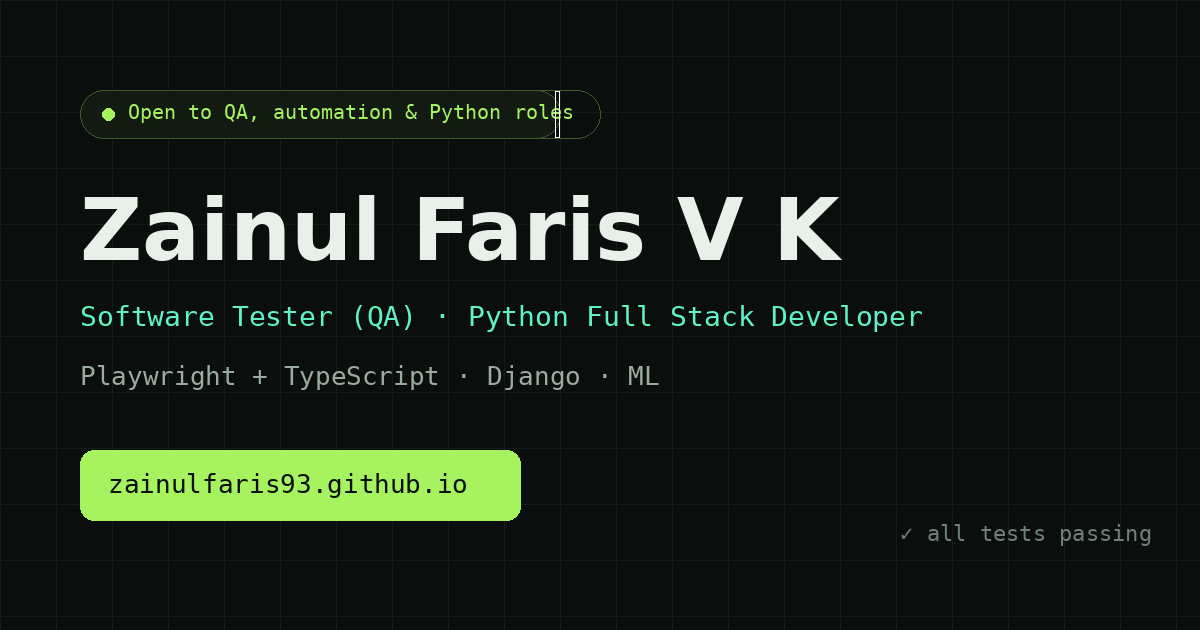
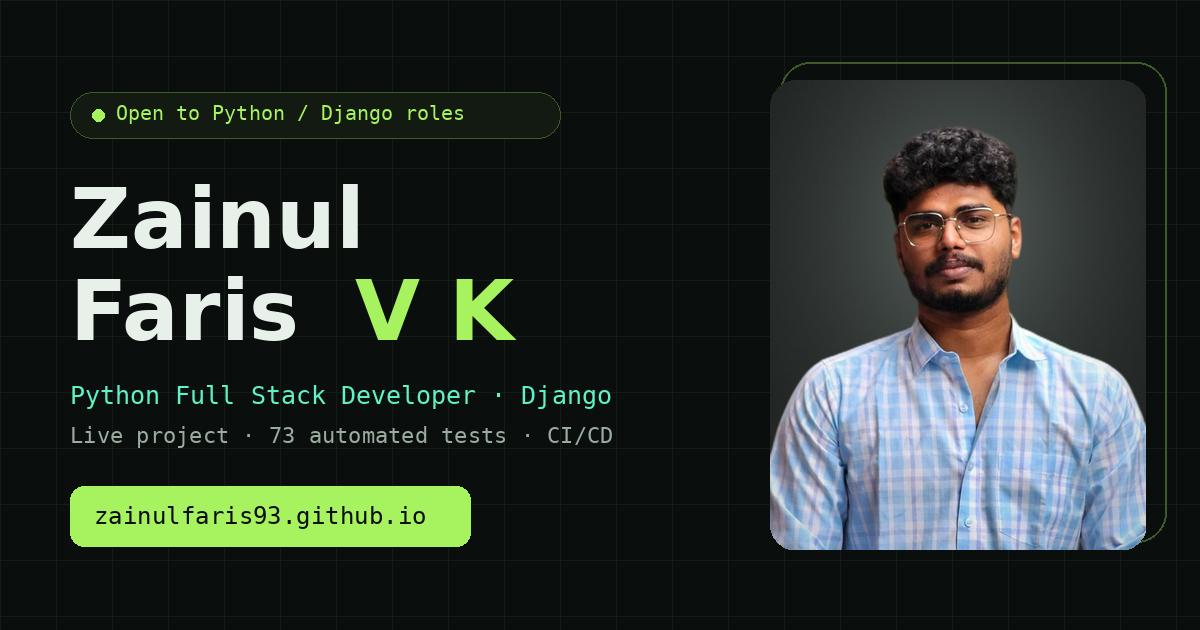
Shared styles, theme toggle, settings, headshot

diff --git a/assets/site.css b/assets/site.css
@@ -1,0 +1,208 @@
+/* ============================================================
+   Zainul Faris V K: shared styles for the portfolio pages
+   ============================================================ */
+:root{
+  --bg:#0a0e0c; --bg2:#0d1210; --panel:#111714; --panel2:#151d19; --line:#1f2b25; --line2:#2a3a32;
+  --text:#e8f0ea; --mute:#9aaba0; --dim:#6f8076;
+  --acc:#a6f25f; --acc-ink:#0a0e0c; --acc2:#5ff2c6; --warn:#ffb547;
+  --acc-soft:rgba(166,242,95,.08); --acc-line:rgba(166,242,95,.32);
+  --grid:#141c18; --shadow:0 30px 80px -24px rgba(0,0,0,.85);
+  --head:'Bricolage Grotesque',system-ui,sans-serif;
+  --mono:'JetBrains Mono',ui-monospace,Menlo,Consolas,monospace;
+  color-scheme:dark;
+}
+:root[data-theme="light"]{
+  --bg:#f5f7f3; --bg2:#eef2ec; --panel:#ffffff; --panel2:#f2f5f0; --line:#dfe6dc; --line2:#cbd6c7;
+  --text:#0f1a14; --mute:#4a5a50; --dim:#6b7a70;
+  --acc:#3d7f12; --acc-ink:#ffffff; --acc2:#0b7c62; --warn:#a35f00;
+  --acc-soft:rgba(61,127,18,.07); --acc-line:rgba(61,127,18,.35);
+  --grid:#e7ece4; --shadow:0 24px 60px -28px rgba(20,40,25,.28);
+  color-scheme:light;
+}
+*{box-sizing:border-box;margin:0;padding:0}
+html{scroll-behavior:smooth;scroll-padding-top:84px}
+body{
+  background:var(--bg); color:var(--text); font-family:var(--head); line-height:1.6; overflow-x:hidden;
+  background-image:linear-gradient(var(--grid) 1px,transparent 1px),linear-gradient(90deg,var(--grid) 1px,transparent 1px);
+  background-size:56px 56px; background-attachment:fixed;
+  transition:background-color .3s,color .3s;
+}
+body::before{content:"";position:fixed;inset:0;pointer-events:none;z-index:0;background:radial-gradient(ellipse at 50% 0%,transparent 0%,var(--bg) 72%)}
+main,nav,footer,header.page{position:relative;z-index:1}
+a{color:inherit;text-decoration:none}
+img{max-width:100%;height:auto;display:block}
+.wrap{max-width:1120px;margin:0 auto;padding:0 24px}
+.narrow{max-width:820px}
+.mono{font-family:var(--mono)}
+svg.i{width:16px;height:16px;flex:none;stroke:currentColor;fill:none;stroke-width:2;stroke-linecap:round;stroke-linejoin:round}
+:focus-visible{outline:2px solid var(--acc);outline-offset:3px;border-radius:6px}
+.skip{position:absolute;left:-999px;top:8px;background:var(--acc);color:var(--acc-ink);padding:8px 14px;border-radius:8px;z-index:100;font-family:var(--mono);font-size:13px}
+.skip:focus{left:16px}
+
+/* NAV */
+nav.top{position:sticky;top:0;backdrop-filter:blur(12px);-webkit-backdrop-filter:blur(12px);background:color-mix(in srgb,var(--bg) 82%,transparent);border-bottom:1px solid var(--line);z-index:50}
+nav.top .wrap{display:flex;align-items:center;justify-content:space-between;height:64px;gap:16px}
+.logo{font-family:var(--mono);font-weight:600;font-size:15px;white-space:nowrap}
+.logo span{color:var(--acc)}
+.nav-r{display:flex;align-items:center;gap:22px}
+.links{display:flex;gap:22px;font-family:var(--mono);font-size:13px}
+.links a{color:var(--mute);transition:color .2s}
+.links a:hover,.links a[aria-current]{color:var(--acc)}
+.icon-btn{background:none;border:1px solid var(--line2);color:var(--text);width:36px;height:36px;border-radius:9px;display:inline-grid;place-items:center;cursor:pointer;transition:border-color .2s,color .2s}
+.icon-btn:hover{border-color:var(--acc);color:var(--acc)}
+.icon-btn .sun{display:none}
+:root[data-theme="light"] .icon-btn .sun{display:block}
+:root[data-theme="light"] .icon-btn .moon{display:none}
+.menu-btn{display:none;background:none;border:1px solid var(--line2);color:var(--text);font-family:var(--mono);font-size:13px;padding:7px 12px;border-radius:8px;cursor:pointer}
+
+/* BUTTONS */
+.btn{font-family:var(--mono);font-size:14px;padding:13px 20px;border-radius:10px;border:1px solid var(--line2);transition:all .2s;display:inline-flex;gap:8px;align-items:center;justify-content:center;cursor:pointer;background:none;color:var(--text);white-space:nowrap}
+.btn.sm{font-size:13px;padding:9px 14px;border-radius:8px}
+.btn.primary{background:var(--acc);color:var(--acc-ink);border-color:var(--acc);font-weight:600}
+.btn.primary:hover{transform:translateY(-2px);box-shadow:0 10px 30px -10px var(--acc)}
+.btn.ghost:hover{border-color:var(--acc);color:var(--acc)}
+.btn[hidden]{display:none}
+.cta{display:flex;gap:12px;flex-wrap:wrap}
+.textlink{color:var(--acc);font-family:var(--mono);font-size:13px;display:inline-flex;align-items:center;gap:6px}
+.textlink:hover{text-decoration:underline;text-underline-offset:4px}
+
+/* SHARED BITS */
+.tag{display:inline-flex;align-items:center;gap:8px;font-family:var(--mono);font-size:12px;color:var(--acc);border:1px solid var(--acc-line);background:var(--acc-soft);padding:6px 12px;border-radius:99px}
+.dot{width:7px;height:7px;border-radius:50%;background:var(--acc);box-shadow:0 0 10px var(--acc);animation:pulse 1.8s infinite}
+@keyframes pulse{50%{opacity:.35}}
+.card{background:var(--panel);border:1px solid var(--line);border-radius:14px;padding:26px}
+.card h4{font-family:var(--mono);font-size:12px;color:var(--mute);font-weight:400;margin-bottom:12px;text-transform:uppercase;letter-spacing:.1em}
+.chips{display:flex;flex-wrap:wrap;gap:7px}
+.chip{font-family:var(--mono);font-size:11.5px;padding:5px 10px;border-radius:6px;background:var(--panel2);border:1px solid var(--line);color:var(--text)}
+.chip.key{border-color:var(--acc-line);color:var(--acc)}
+.badge{font-family:var(--mono);font-size:11.5px;padding:4px 10px;border-radius:99px;border:1px solid var(--line2);color:var(--mute);display:inline-flex;align-items:center;gap:6px}
+.badge.live{color:var(--acc);border-color:var(--acc-line)}
+.badges{display:flex;gap:8px;flex-wrap:wrap}
+.arrows{list-style:none}
+.arrows li{color:var(--mute);padding-left:22px;position:relative;margin-bottom:8px;font-size:15.5px}
+.arrows li b{color:var(--text);font-weight:600}
+.arrows li::before{content:"→";position:absolute;left:0;color:var(--acc);font-family:var(--mono)}
+
+section{padding:96px 0 10px}
+.sec-head{display:flex;align-items:baseline;gap:16px;margin-bottom:14px}
+.sec-head .num{font-family:var(--mono);color:var(--acc);font-size:14px}
+.sec-head h2{font-size:clamp(32px,4.6vw,50px);font-weight:800;letter-spacing:-.02em;line-height:1}
+.sec-head .rule{flex:1;height:1px;background:var(--line)}
+.sec-sub{color:var(--mute);font-size:17px;margin-bottom:36px;max-width:660px}
+
+/* TERMINAL */
+.term{background:#0e1411;border:1px solid #1f2b25;border-radius:14px;overflow:hidden;box-shadow:var(--shadow);color:#e8f0ea}
+.term-bar{display:flex;align-items:center;gap:8px;padding:12px 16px;border-bottom:1px solid #1f2b25;background:#141c18}
+.term-bar i{width:11px;height:11px;border-radius:50%}
+.term-bar i:nth-child(1){background:#ff5f57}.term-bar i:nth-child(2){background:#febc2e}.term-bar i:nth-child(3){background:#28c840}
+.term-bar span{margin-left:auto;font-family:var(--mono);font-size:11px;color:#8b9b91}
+.term-body{font-family:var(--mono);font-size:12.5px;padding:18px 20px;min-height:360px;line-height:1.8;white-space:pre-wrap}
+.term-body .p{color:#5ff2c6} .term-body .ok{color:#a6f25f} .term-body .dim{color:#8b9b91} .term-body .sum{color:#a6f25f;font-weight:600}
+.cursor{display:inline-block;width:8px;height:15px;background:#a6f25f;vertical-align:middle;animation:blink 1s steps(1) infinite}
+@keyframes blink{50%{opacity:0}}
+
+/* FLOW DIAGRAMS */
+.flow{display:flex;align-items:stretch;gap:0;flex-wrap:nowrap}
+.flow .step{flex:1;min-width:0;background:var(--panel2);border:1px solid var(--line);border-radius:12px;padding:14px 14px 12px;text-align:left}
+.flow .step b{display:block;font-size:14.5px;line-height:1.25;margin-bottom:4px}
+.flow .step small{display:block;font-family:var(--mono);font-size:11px;color:var(--mute);line-height:1.5}
+.flow .step .k{font-family:var(--mono);font-size:10.5px;color:var(--acc);letter-spacing:.08em;text-transform:uppercase;margin-bottom:6px;display:block}
+.flow .step.hl{border-color:var(--acc-line);background:var(--acc-soft)}
+.flow .arr{flex:none;width:30px;display:grid;place-items:center;color:var(--acc);font-family:var(--mono)}
+.flow .arr::before{content:"→"}
+.diagram{padding:22px}
+.diagram figcaption{font-family:var(--mono);font-size:12px;color:var(--dim);margin-top:14px}
+
+/* FOOTER */
+footer{border-top:1px solid var(--line);padding:26px 0;font-family:var(--mono);font-size:12px;color:var(--mute);margin-top:40px}
+footer .wrap{display:flex;justify-content:space-between;flex-wrap:wrap;gap:10px}
+
+/* REVEAL */
+.rv{opacity:0;transform:translateY(22px);transition:opacity .7s ease,transform .7s cubic-bezier(.2,.8,.2,1)}
+.rv.in{opacity:1;transform:none}
+.no-js .rv{opacity:1;transform:none}
+
+/* ================= CASE STUDY PAGES ================= */
+header.page{padding:56px 0 18px}
+.crumb{font-family:var(--mono);font-size:13px;color:var(--mute);display:inline-flex;gap:8px;align-items:center;margin-bottom:26px}
+.crumb:hover{color:var(--acc)}
+header.page h1{font-size:clamp(38px,6vw,68px);font-weight:800;letter-spacing:-.03em;line-height:1;margin:16px 0 18px}
+header.page .lede{font-size:clamp(17px,2vw,20px);color:var(--mute);max-width:720px}
+.meta-grid{display:grid;grid-template-columns:repeat(4,1fr);border:1px solid var(--line);border-radius:14px;background:var(--panel);overflow:hidden;margin:34px 0 24px}
+.meta-grid div{padding:18px 20px;border-right:1px solid var(--line)}
+.meta-grid div:last-child{border-right:none}
+.meta-grid small{display:block;font-family:var(--mono);font-size:11px;color:var(--dim);text-transform:uppercase;letter-spacing:.1em;margin-bottom:4px}
+.meta-grid b{font-size:15px;font-weight:600;line-height:1.35;display:block}
+.cs section{padding:64px 0 0}
+.cs h2{font-size:clamp(26px,3.4vw,34px);font-weight:800;letter-spacing:-.01em;margin-bottom:14px;display:flex;gap:12px;align-items:baseline}
+.cs h2 .num{font-family:var(--mono);font-size:13px;color:var(--acc);font-weight:400}
+.cs h3{font-size:19px;margin:26px 0 8px}
+.cs p{color:var(--mute);font-size:17px;margin-bottom:14px}
+.cs p b,.cs p strong{color:var(--text);font-weight:600}
+.cs code{font-family:var(--mono);font-size:.86em;background:var(--panel2);border:1px solid var(--line);padding:1px 6px;border-radius:5px;color:var(--text)}
+.shot{border:1px solid var(--line);border-radius:12px;overflow:hidden;background:var(--panel2)}
+.shot .bar{display:flex;align-items:center;gap:6px;padding:9px 12px;border-bottom:1px solid var(--line)}
+.shot .bar i{width:8px;height:8px;border-radius:50%;background:var(--line2)}
+.shot .bar span{margin-left:8px;font-family:var(--mono);font-size:11px;color:var(--dim)}
+.shots{display:grid;grid-template-columns:1fr 1fr;gap:18px;margin-top:20px}
+.shots figure figcaption{font-family:var(--mono);font-size:12px;color:var(--dim);margin-top:8px}
+.bugs{display:grid;gap:12px;margin-top:18px}
+.bug{display:grid;grid-template-columns:auto 1fr;gap:4px 14px;padding:16px 18px}
+.bug .sev{font-family:var(--mono);font-size:11px;padding:3px 8px;border-radius:6px;height:fit-content;border:1px solid}
+.bug .sev.high{color:#ff7a6b;border-color:rgba(255,122,107,.45)}
+.bug .sev.med{color:var(--warn);border-color:color-mix(in srgb,var(--warn) 45%,transparent)}
+.bug .sev.low{color:var(--acc2);border-color:color-mix(in srgb,var(--acc2) 45%,transparent)}
+.bug b{font-size:16px}
+.bug p{grid-column:2;font-size:15px;margin:0}
+.stat-row{display:grid;grid-template-columns:repeat(3,1fr);gap:14px;margin:18px 0}
+.stat{padding:20px}
+.stat b{display:block;font-size:34px;font-weight:800;letter-spacing:-.02em;color:var(--acc);line-height:1}
+.stat span{font-family:var(--mono);font-size:12px;color:var(--mute)}
+.next{display:flex;justify-content:space-between;gap:16px;flex-wrap:wrap;margin-top:70px;padding-top:26px;border-top:1px solid var(--line)}
+.next a{display:block;padding:18px 20px;border:1px solid var(--line);border-radius:12px;background:var(--panel);flex:1;min-width:240px;transition:border-color .2s}
+.next a:hover{border-color:var(--acc)}
+.next small{display:block;font-family:var(--mono);font-size:11px;color:var(--dim);text-transform:uppercase;letter-spacing:.1em}
+.next b{font-size:18px}
+
+/* RESPONSIVE */
+@media(max-width:960px){
+  .links{display:none;position:absolute;top:64px;left:0;right:0;flex-direction:column;gap:0;background:var(--bg);border-bottom:1px solid var(--line)}
+  .links.open{display:flex}
+  .links a{padding:16px 24px;border-top:1px solid var(--line)}
+  .menu-btn{display:block}
+  .nav-r{gap:10px}
+  .meta-grid{grid-template-columns:1fr 1fr}
+  .meta-grid div:nth-child(2){border-right:none}
+  .meta-grid div:nth-child(-n+2){border-bottom:1px solid var(--line)}
+  .flow{flex-direction:column}
+  .flow .arr{width:auto;height:26px}
+  .flow .arr::before{content:"↓"}
+}
+@media(max-width:640px){
+  .wrap{padding:0 16px}
+  .shots,.stat-row{grid-template-columns:1fr}
+  .meta-grid{grid-template-columns:1fr}
+  .meta-grid div{border-right:none;border-bottom:1px solid var(--line)}
+  .meta-grid div:last-child{border-bottom:none}
+  .cta .btn{flex:1 1 100%}
+  .term-body{font-size:11px;min-height:330px;padding:16px}
+  .nav-r .btn .long{display:none}
+}
+@media(prefers-reduced-motion:reduce){*{animation:none!important;transition:none!important}.rv{opacity:1;transform:none}}
+@media print{
+  body{background:#fff;color:#000}
+  body::before,nav.top,.term,.cta,.icon-btn{display:none!important}
+  .rv{opacity:1;transform:none}
+  .card{background:#fff;border-color:#ccc}
+}
+
+/* CODE BLOCKS (case studies) */
+pre.code{background:#0e1411;color:#d6e2da;border:1px solid #1f2b25;border-radius:12px;padding:16px 18px;overflow-x:auto;font-family:var(--mono);font-size:12.5px;line-height:1.7;margin:14px 0 6px}
+pre.code .c{color:#6f8076} pre.code .k{color:#5ff2c6} pre.code .s{color:#ffcf7a} pre.code .f{color:#a6f25f}
+.lifecycle{display:flex;flex-wrap:wrap;gap:8px;align-items:center;font-family:var(--mono);font-size:12.5px;margin:12px 0}
+.lifecycle span.st{padding:6px 11px;border-radius:8px;border:1px solid var(--line2);background:var(--panel2)}
+.lifecycle span.st.ok{border-color:var(--acc-line);color:var(--acc)}
+.lifecycle span.st.no{color:var(--warn)}
+.lifecycle span.ar{color:var(--dim)}
+.two{display:grid;grid-template-columns:1fr 1fr;gap:18px}
+@media(max-width:760px){.two{grid-template-columns:1fr}}

diff --git a/assets/site.js b/assets/site.js
@@ -1,0 +1,63 @@
+/* Shared behaviour for every page: theme, menu, reveal, résumé, live-demo links. */
+(function () {
+  const S = window.SETTINGS || {};
+  const $ = (s, r = document) => r.querySelector(s);
+  const $$ = (s, r = document) => Array.from(r.querySelectorAll(s));
+  const root = document.documentElement;
+  // Pages in /projects/ sit one level down
+  const base = document.body.dataset.base || '';
+
+  // ---- Theme toggle (initial theme is set by the inline script in <head>)
+  $$('[data-theme-toggle]').forEach(btn => {
+    const sync = () => btn.setAttribute('aria-label', root.dataset.theme === 'light' ? 'Switch to dark theme' : 'Switch to light theme');
+    sync();
+    btn.addEventListener('click', () => {
+      const next = root.dataset.theme === 'light' ? 'dark' : 'light';
+      root.dataset.theme = next;
+      try { localStorage.setItem('theme', next); } catch (e) {}
+      sync();
+    });
+  });
+
+  // ---- Mobile menu
+  const links = $('#links'), menuBtn = $('#menuBtn');
+  if (links && menuBtn) {
+    menuBtn.onclick = () => { const o = links.classList.toggle('open'); menuBtn.setAttribute('aria-expanded', o); };
+    $$('a', links).forEach(a => a.addEventListener('click', () => { links.classList.remove('open'); menuBtn.setAttribute('aria-expanded', false); }));
+  }
+
+  // ---- Reveal on scroll
+  if ('IntersectionObserver' in window) {
+    const io = new IntersectionObserver(es => es.forEach(e => { if (e.isIntersecting) { e.target.classList.add('in'); io.unobserve(e.target); } }), { threshold: .08 });
+    $$('.rv').forEach((el, i) => { el.style.transitionDelay = (i % 3) * 70 + 'ms'; io.observe(el); });
+  } else { $$('.rv').forEach(el => el.classList.add('in')); }
+
+  // ---- Contact links
+  $$('[data-email]').forEach(a => { a.href = 'mailto:' + S.email; if (!a.textContent.trim()) a.textContent = S.email; });
+  $$('[data-github]').forEach(a => a.href = S.github);
+  $$('[data-linkedin]').forEach(a => a.href = S.linkedin);
+  $$('[data-year]').forEach(el => el.textContent = new Date().getFullYear());
+
+  // ---- Live demo links + wake the free server early so it's ready when clicked
+  $$('[data-demo]').forEach(a => a.href = S.hospitalDemo + (a.dataset.demo || '/login_page'));
+  let woke = false;
+  window.wakeDemo = () => { if (woke || !S.hospitalDemo) return; woke = true; fetch(S.hospitalDemo, { mode: 'no-cors', cache: 'no-store' }).catch(() => {}); };
+  if ($('[data-demo]')) setTimeout(window.wakeDemo, 1500);
+
+  // ---- Résumé: resume.pdf, or resume-<name>.pdf when the link has ?cv=<name>
+  const resumeLinks = $$('[data-resume]');
+  if (resumeLinks.length) (async () => {
+    let cv = (new URLSearchParams(location.search).get('cv') || '').toLowerCase().replace(/[^a-z0-9_-]/g, '');
+    try { if (cv) sessionStorage.setItem('cv', cv); else cv = sessionStorage.getItem('cv') || ''; } catch (e) {}
+    const candidates = cv ? ['resume-' + cv + '.pdf', S.resumeFile] : [S.resumeFile];
+    for (const file of candidates) {
+      try {
+        const r = await fetch(base + file, { method: 'HEAD', cache: 'no-store' });
+        if (r.ok) {
+          resumeLinks.forEach(a => { a.href = base + file + '?v=' + Date.now(); a.setAttribute('download', S.resumeDownloadName); a.hidden = false; });
+          return;
+        }
+      } catch (e) {}
+    }
+  })();
+})();

diff --git a/assets/settings.js b/assets/settings.js
@@ -1,0 +1,23 @@
+/* =====================================================================
+   PORTFOLIO SETTINGS: edit the values inside quotes, then commit.
+   =====================================================================
+   RÉSUMÉ
+     • Main résumé: upload a PDF named  resume.pdf  to the repo root (replace it any time).
+     • Tailored résumé: upload e.g.  resume-zilmoney.pdf  and share
+         https://zainulfaris93.github.io/?cv=zilmoney
+       Visitors on that link download the tailored file instead.
+   NEW PROJECTS
+     • Any new public GitHub repo appears automatically under "More on GitHub".
+     • Set the repo's "Website" field on GitHub to show a "Live" button for it.
+     • To hide a repo from that list, add its name to hideRepos.
+   ===================================================================== */
+window.SETTINGS = {
+  email:    "zainulfaris40@gmail.com",
+  github:   "https://github.com/ZainulFaris93",
+  linkedin: "https://www.linkedin.com/in/zainul-faris-vk",
+  githubUser: "ZainulFaris93",
+  resumeFile: "resume.pdf",
+  resumeDownloadName: "Zainul_Faris_VK_Resume.pdf",
+  hospitalDemo: "https://starcare-hospital.onrender.com",
+  hideRepos: ["ZainulFaris93.github.io", "desktop-tutorial", "Hospital-Management-System"]
+};
